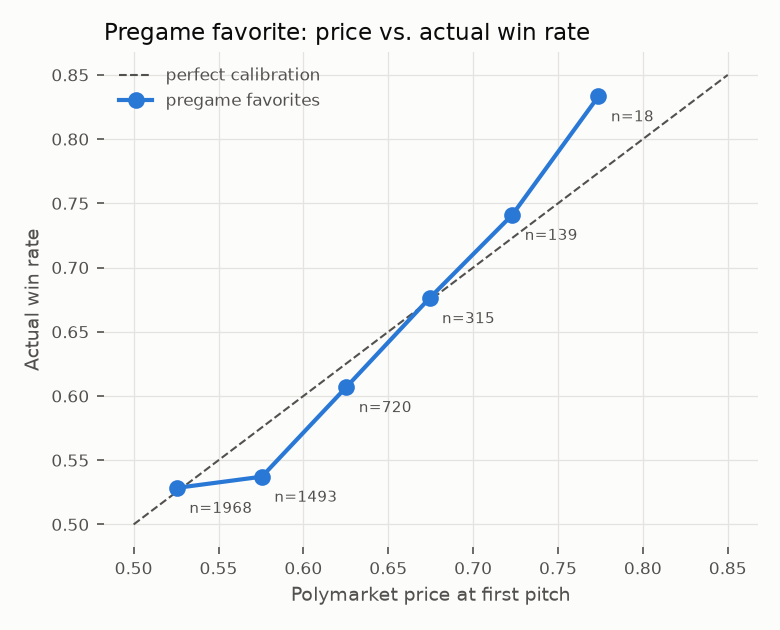
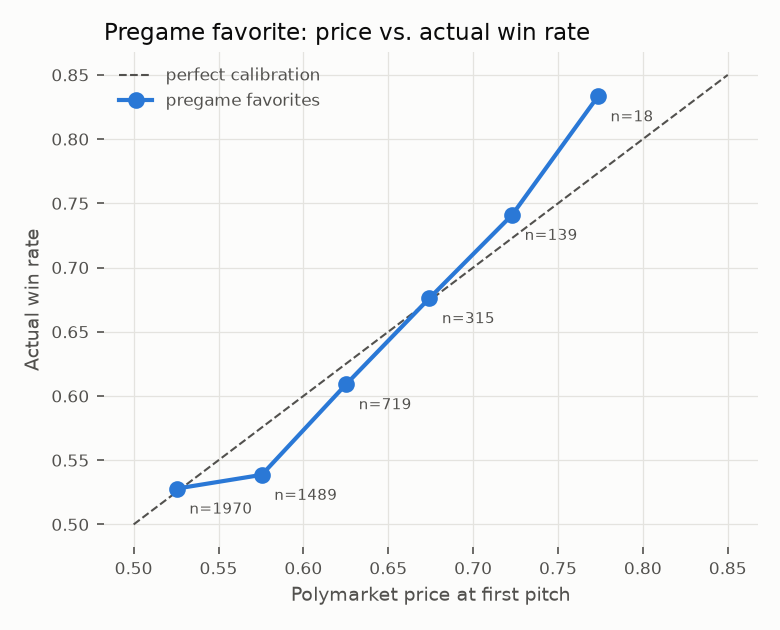
results: publish corrected MLB state and prediction report

diff --git a/reports/REPORT.md b/reports/REPORT.md
@@ -1,62 +1,60 @@
-# MLB x Polymarket: hypothesis report (2026-09-20)
+# MLB hypothesis report (2026-09-23)
 
-Generated by `python -m pmsports report`. All prices are Polymarket moneyline probabilities for the side named; P&L assumes you buy as a **taker** and hold to resolution. Fee = Polymarket sports taker fee `shares * 0.05 * p * (1-p)` (2.5% of notional at 50c); slippage = 1c unless stated.
+Corrected historical research; the evaluated history has already been explored. No result here proves an executable or prospective trading edge. Generated by `python -m pmsports report`.
 
-## Data
+## Data and timing
 
-- Polymarket MLB game events: 4,980; joined to MLB game_pk: 4,665
-- Games with pregame price + outcome: 4,653
-- In-game state rows priced by >=3 actual fills 15-75s after the play: 164,410 (27,026 half-inning checkpoints)
-- Baseline (MLB-only) games for win-expectancy tables: 14,379 (seasons 2021-2026)
+- 4,650 pregame price/outcome observations; 267,781 game states and 60,301 half-inning checkpoints.
+- Descriptive baseline: 14,379 games, seasons 2021–2026.
+- State references use raw transaction timestamps strictly before the decision; H2/H3 require a reference no older than 120 seconds. Terminal and phantom duplicate states are removed.
+- H3 entries require the first later acquired-side print strictly after five seconds and before state expiry; printed size and a $100 fee-inclusive game cap limit allocation. Failed and partial entries remain counted. The five seconds start at a retrospective play clock: actual receipt latency and available book depth are unknown.
 
-## H1 - Do pregame favorites win as often as the price says?
+## H1 — Pregame calibration
 
-Favorites won **56.1%** of games at an average price of **57.4%**. Calibration slope 0.84 (se 0.08; 1.00 = perfectly calibrated), intercept +0.036. Brier: market 0.2435 vs coin-flip 0.2500.
+Descriptive pregame-price calibration and synthetic cost sensitivities; no available quote/size is established.
 
-The question is not *does the favorite win more than 50%* (it does, by construction) but *does it win more often than its price*. Only the gap between the two columns below is edge.
+Favorites won 56.2% at mean reference probability 57.4%. Calibration slope 0.85 (standard error 0.08), intercept +0.034; market Brier 0.2434.
 
 | bucket        |   games |   implied |   actual | ci95        |   actual_minus_implied |
 |:--------------|--------:|----------:|---------:|:------------|-----------------------:|
-| (0.499, 0.55] |    1968 |     0.525 |    0.528 | 0.506-0.550 |                  0.003 |
-| (0.55, 0.6]   |    1493 |     0.576 |    0.537 | 0.512-0.562 |                 -0.038 |
-| (0.6, 0.65]   |     720 |     0.625 |    0.607 | 0.571-0.642 |                 -0.018 |
+| (0.499, 0.55] |    1970 |     0.525 |    0.528 | 0.506-0.550 |                  0.002 |
+| (0.55, 0.6]   |    1489 |     0.575 |    0.539 | 0.513-0.564 |                 -0.037 |
+| (0.6, 0.65]   |     719 |     0.625 |    0.609 | 0.573-0.644 |                 -0.016 |
 | (0.65, 0.7]   |     315 |     0.674 |    0.676 | 0.623-0.725 |                  0.002 |
 | (0.7, 0.75]   |     139 |     0.723 |    0.741 | 0.662-0.807 |                  0.018 |
-| (0.75, 1.0]   |      18 |     0.774 |    0.833 | 0.608-0.942 |                  0.059 |
+| (0.75, 1.0]   |      18 |     0.774 |    0.833 | 0.608-0.942 |                  0.060 |
 
-![calibration](h1_calibration.png)
-
-By season:
+![Pregame calibration](h1_calibration.png)
 
 |   season |   games |   fav_price |   fav_win |
 |---------:|--------:|------------:|----------:|
 |     2025 |    2363 |       0.579 |     0.559 |
-|     2026 |    2290 |       0.568 |     0.562 |
+|     2026 |    2287 |       0.568 |     0.564 |
 
-Blind strategies (every game, ROI per $1 staked, bootstrap 95% CI):
+Synthetic equal-dollar reference-price benchmarks follow. Their `bets` column counts observations, not executable fills. Zero/5% fee-rate and 0/1c adjustments are explicit cost scenarios, not per-contract historical fees or evidence of available depth. See [FAVORITES.md](FAVORITES.md) for later-print, size-limited execution.
 
 | strategy     | fee           |   slippage |   bets |   win_rate |   avg_price |   roi_per_$ | roi_ci95         |
 |:-------------|:--------------|-----------:|-------:|-----------:|------------:|------------:|:-----------------|
-| bet favorite | no fee        |      0.000 |   4653 |      0.561 |       0.574 |      -0.022 | -0.048 to +0.002 |
-| bet favorite | no fee        |      0.010 |   4653 |      0.561 |       0.574 |      -0.039 | -0.064 to -0.015 |
-| bet favorite | 5% sports fee |      0.000 |   4653 |      0.561 |       0.574 |      -0.043 | -0.068 to -0.019 |
-| bet favorite | 5% sports fee |      0.010 |   4653 |      0.561 |       0.574 |      -0.059 | -0.083 to -0.035 |
-| bet underdog | no fee        |      0.000 |   4653 |      0.439 |       0.426 |       0.031 | -0.001 to +0.066 |
-| bet underdog | no fee        |      0.010 |   4653 |      0.439 |       0.426 |       0.007 | -0.025 to +0.041 |
-| bet underdog | 5% sports fee |      0.000 |   4653 |      0.439 |       0.426 |       0.003 | -0.029 to +0.036 |
-| bet underdog | 5% sports fee |      0.010 |   4653 |      0.439 |       0.426 |      -0.020 | -0.052 to +0.012 |
-| bet home     | no fee        |      0.000 |   4653 |      0.536 |       0.532 |       0.012 | -0.017 to +0.040 |
-| bet home     | no fee        |      0.010 |   4653 |      0.536 |       0.532 |      -0.007 | -0.036 to +0.020 |
-| bet home     | 5% sports fee |      0.000 |   4653 |      0.536 |       0.532 |      -0.011 | -0.040 to +0.016 |
-| bet home     | 5% sports fee |      0.010 |   4653 |      0.536 |       0.532 |      -0.029 | -0.057 to -0.002 |
-| bet away     | no fee        |      0.000 |   4653 |      0.464 |       0.468 |      -0.003 | -0.035 to +0.029 |
-| bet away     | no fee        |      0.010 |   4653 |      0.464 |       0.468 |      -0.025 | -0.056 to +0.006 |
-| bet away     | 5% sports fee |      0.000 |   4653 |      0.464 |       0.468 |      -0.029 | -0.060 to +0.002 |
-| bet away     | 5% sports fee |      0.010 |   4653 |      0.464 |       0.468 |      -0.050 | -0.080 to -0.019 |
+| bet favorite | no fee        |      0.000 |   4650 |      0.562 |       0.574 |      -0.021 | -0.048 to +0.003 |
+| bet favorite | no fee        |      0.010 |   4650 |      0.562 |       0.574 |      -0.038 | -0.064 to -0.014 |
+| bet favorite | 5% sports fee |      0.000 |   4650 |      0.562 |       0.574 |      -0.042 | -0.068 to -0.018 |
+| bet favorite | 5% sports fee |      0.010 |   4650 |      0.562 |       0.574 |      -0.058 | -0.083 to -0.034 |
+| bet underdog | no fee        |      0.000 |   4650 |      0.438 |       0.426 |       0.030 | -0.004 to +0.065 |
+| bet underdog | no fee        |      0.010 |   4650 |      0.438 |       0.426 |       0.006 | -0.027 to +0.041 |
+| bet underdog | 5% sports fee |      0.000 |   4650 |      0.438 |       0.426 |       0.001 | -0.032 to +0.036 |
+| bet underdog | 5% sports fee |      0.010 |   4650 |      0.438 |       0.426 |      -0.022 | -0.054 to +0.012 |
+| bet home     | no fee        |      0.000 |   4650 |      0.536 |       0.532 |       0.011 | -0.017 to +0.038 |
+| bet home     | no fee        |      0.010 |   4650 |      0.536 |       0.532 |      -0.008 | -0.035 to +0.019 |
+| bet home     | 5% sports fee |      0.000 |   4650 |      0.536 |       0.532 |      -0.012 | -0.039 to +0.014 |
+| bet home     | 5% sports fee |      0.010 |   4650 |      0.536 |       0.532 |      -0.030 | -0.057 to -0.004 |
+| bet away     | no fee        |      0.000 |   4650 |      0.464 |       0.468 |      -0.003 | -0.034 to +0.029 |
+| bet away     | no fee        |      0.010 |   4650 |      0.464 |       0.468 |      -0.025 | -0.055 to +0.007 |
+| bet away     | 5% sports fee |      0.000 |   4650 |      0.464 |       0.468 |      -0.029 | -0.059 to +0.002 |
+| bet away     | 5% sports fee |      0.010 |   4650 |      0.464 |       0.468 |      -0.049 | -0.079 to -0.019 |
 
-## H2 - Leading by X going into inning Z
+## H2 — Prices and outcomes by state
 
-Ground truth from MLB play-by-play (includes seasons with no Polymarket data). Rows = inning about to start (10 = extras), columns = lead in runs (6 = 6+), value = how often the leading team went on to win.
+The first table describes historical win frequencies, including the evaluated season; it is not a causal forecasting model. Trading rules use strictly prior seasons. Rows are the inning about to start; columns are absolute lead (six means six or more).
 
 |   inning |     1 |     2 |     3 |     4 |     5 |     6 |
 |---------:|------:|------:|------:|------:|------:|------:|
@@ -69,96 +67,93 @@ Ground truth from MLB play-by-play (includes seasons with no Polymarket data). R
 |        8 | 0.758 | 0.881 | 0.946 | 0.971 | 0.984 | 0.997 |
 |        9 | 0.855 | 0.935 | 0.98  | 0.991 | 0.995 | 0.999 |
 
-Same states on Polymarket games: what the market priced the leader at (mean, std, 10th-90th pct) vs how often they actually won. `edge` = actual - mean price; |t| < 2 is noise.
+The market table compares outcomes and prices on the same priced, non-stale observations. Residual confidence intervals resample whole games. These descriptive, overlapping cells do not provide independent confirmatory significance tests.
 
-|   inning |   lead |       n |   mkt_mean |   mkt_std |   mkt_p10 |   mkt_p90 |   actual_win |   edge_actual_minus_mkt |   t_stat |   baseline_win |
-|---------:|-------:|--------:|-----------:|----------:|----------:|----------:|-------------:|------------------------:|---------:|---------------:|
-|    2.000 |  1.000 | 482.000 |      0.608 |     0.082 |     0.510 |     0.710 |        0.593 |                  -0.015 |   -0.672 |          0.617 |
-|    2.000 |  2.000 | 209.000 |      0.710 |     0.079 |     0.600 |     0.805 |        0.718 |                   0.008 |    0.268 |          0.733 |
-|    2.000 |  3.000 | 118.000 |      0.796 |     0.059 |     0.705 |     0.867 |        0.831 |                   0.035 |    1.024 |          0.821 |
-|    3.000 |  1.000 | 508.000 |      0.618 |     0.076 |     0.520 |     0.710 |        0.604 |                  -0.014 |   -0.646 |          0.630 |
-|    3.000 |  2.000 | 247.000 |      0.724 |     0.067 |     0.640 |     0.820 |        0.749 |                   0.025 |    0.916 |          0.749 |
-|    3.000 |  3.000 | 135.000 |      0.806 |     0.059 |     0.722 |     0.880 |        0.807 |                   0.001 |    0.027 |          0.810 |
-|    3.000 |  4.000 |  52.000 |      0.874 |     0.042 |     0.825 |     0.919 |        0.885 |                   0.011 |    0.242 |          0.875 |
-|    3.000 |  5.000 |  40.000 |      0.919 |     0.031 |     0.879 |     0.960 |        0.950 |                   0.031 |    0.924 |          0.937 |
-|    4.000 |  1.000 | 468.000 |      0.628 |     0.069 |     0.540 |     0.710 |        0.635 |                   0.006 |    0.279 |          0.638 |
-|    4.000 |  2.000 | 267.000 |      0.737 |     0.063 |     0.660 |     0.820 |        0.760 |                   0.023 |    0.886 |          0.758 |
-|    4.000 |  3.000 | 166.000 |      0.825 |     0.046 |     0.760 |     0.880 |        0.777 |                  -0.048 |   -1.492 |          0.831 |
-|    4.000 |  4.000 |  89.000 |      0.892 |     0.035 |     0.848 |     0.932 |        0.865 |                  -0.027 |   -0.751 |          0.902 |
-|    4.000 |  5.000 |  54.000 |      0.932 |     0.029 |     0.910 |     0.960 |        0.963 |                   0.031 |    1.209 |          0.920 |
-|    4.000 |  6.000 |  56.000 |      0.955 |     0.020 |     0.930 |     0.981 |        0.964 |                   0.009 |    0.370 |          0.969 |
-|    5.000 |  1.000 | 447.000 |      0.642 |     0.065 |     0.553 |     0.721 |        0.626 |                  -0.015 |   -0.666 |          0.669 |
-|    5.000 |  2.000 | 301.000 |      0.764 |     0.055 |     0.690 |     0.825 |        0.787 |                   0.023 |    0.987 |          0.776 |
-|    5.000 |  3.000 | 168.000 |      0.851 |     0.045 |     0.790 |     0.900 |        0.833 |                  -0.018 |   -0.619 |          0.851 |
-|    5.000 |  4.000 | 126.000 |      0.912 |     0.029 |     0.877 |     0.950 |        0.937 |                   0.025 |    1.134 |          0.925 |
-|    5.000 |  5.000 |  78.000 |      0.940 |     0.021 |     0.920 |     0.960 |        0.885 |                  -0.055 |   -1.510 |          0.922 |
-|    5.000 |  6.000 |  67.000 |      0.971 |     0.018 |     0.950 |     0.990 |        1.000 |                   0.029 |   13.481 |          0.990 |
-|    6.000 |  1.000 | 422.000 |      0.666 |     0.065 |     0.590 |     0.740 |        0.637 |                  -0.029 |   -1.217 |          0.678 |
-|    6.000 |  2.000 | 314.000 |      0.791 |     0.048 |     0.722 |     0.850 |        0.809 |                   0.018 |    0.827 |          0.803 |
-|    6.000 |  3.000 | 217.000 |      0.873 |     0.036 |     0.823 |     0.910 |        0.899 |                   0.025 |    1.232 |          0.877 |
-|    6.000 |  4.000 | 138.000 |      0.925 |     0.022 |     0.900 |     0.950 |        0.978 |                   0.053 |    4.262 |          0.929 |
-|    6.000 |  5.000 |  88.000 |      0.953 |     0.016 |     0.934 |     0.970 |        0.966 |                   0.013 |    0.672 |          0.961 |
-|    6.000 |  6.000 |  57.000 |      0.975 |     0.016 |     0.950 |     0.990 |        0.965 |                  -0.010 |   -0.393 |          0.988 |
-|    7.000 |  1.000 | 415.000 |      0.703 |     0.051 |     0.640 |     0.760 |        0.684 |                  -0.018 |   -0.809 |          0.711 |
-|    7.000 |  2.000 | 336.000 |      0.824 |     0.066 |     0.775 |     0.880 |        0.833 |                   0.009 |    0.455 |          0.843 |
-|    7.000 |  3.000 | 214.000 |      0.903 |     0.026 |     0.870 |     0.930 |        0.916 |                   0.013 |    0.665 |          0.911 |
-|    7.000 |  4.000 | 147.000 |      0.946 |     0.016 |     0.928 |     0.964 |        0.986 |                   0.040 |    4.184 |          0.952 |
-|    7.000 |  5.000 |  84.000 |      0.967 |     0.014 |     0.950 |     0.980 |        0.964 |                  -0.003 |   -0.126 |          0.979 |
-|    7.000 |  6.000 |  75.000 |      0.983 |     0.011 |     0.970 |     0.994 |        0.987 |                   0.004 |    0.279 |          0.992 |
-|    8.000 |  1.000 | 441.000 |      0.763 |     0.041 |     0.710 |     0.812 |        0.739 |                  -0.024 |   -1.134 |          0.758 |
-|    8.000 |  2.000 | 315.000 |      0.881 |     0.030 |     0.850 |     0.917 |        0.870 |                  -0.011 |   -0.572 |          0.881 |
-|    8.000 |  3.000 | 253.000 |      0.936 |     0.018 |     0.910 |     0.960 |        0.929 |                  -0.008 |   -0.468 |          0.946 |
-|    8.000 |  4.000 | 143.000 |      0.964 |     0.012 |     0.950 |     0.980 |        0.958 |                  -0.006 |   -0.377 |          0.971 |
-|    8.000 |  5.000 |  90.000 |      0.980 |     0.009 |     0.970 |     0.990 |        1.000 |                   0.020 |   20.220 |          0.984 |
-|    8.000 |  6.000 |  60.000 |      0.989 |     0.004 |     0.981 |     0.993 |        1.000 |                   0.011 |   19.310 |          0.997 |
-|    9.000 |  1.000 | 484.000 |      0.855 |     0.031 |     0.810 |     0.890 |        0.851 |                  -0.003 |   -0.214 |          0.855 |
-|    9.000 |  2.000 | 362.000 |      0.935 |     0.017 |     0.911 |     0.955 |        0.923 |                  -0.013 |   -0.918 |          0.935 |
-|    9.000 |  3.000 | 240.000 |      0.969 |     0.011 |     0.955 |     0.980 |        0.979 |                   0.010 |    1.096 |          0.980 |
-|    9.000 |  4.000 | 124.000 |      0.983 |     0.014 |     0.972 |     0.990 |        0.992 |                   0.009 |    1.156 |          0.991 |
-|    9.000 |  5.000 |  50.000 |      0.990 |     0.005 |     0.987 |     0.994 |        1.000 |                   0.010 |   13.589 |          0.995 |
+|   inning |   lead |        n |   mkt_mean |   mkt_std |   mkt_p10 |   mkt_p90 |   actual_win |   edge_actual_minus_mkt |   residual_ci_lo |   residual_ci_hi |   baseline_win |
+|---------:|-------:|---------:|-----------:|----------:|----------:|----------:|-------------:|------------------------:|-----------------:|-----------------:|---------------:|
+|    2.000 |  1.000 | 1012.000 |      0.612 |     0.097 |     0.490 |     0.730 |        0.612 |                  -0.000 |           -0.030 |            0.031 |          0.617 |
+|    2.000 |  2.000 |  451.000 |      0.713 |     0.092 |     0.590 |     0.830 |        0.732 |                   0.019 |           -0.023 |            0.059 |          0.733 |
+|    2.000 |  3.000 |  245.000 |      0.796 |     0.071 |     0.700 |     0.880 |        0.816 |                   0.020 |           -0.029 |            0.070 |          0.821 |
+|    2.000 |  4.000 |   80.000 |      0.857 |     0.055 |     0.790 |     0.920 |        0.850 |                  -0.007 |           -0.096 |            0.071 |          0.864 |
+|    3.000 |  1.000 | 1146.000 |      0.623 |     0.092 |     0.510 |     0.740 |        0.620 |                  -0.004 |           -0.032 |            0.024 |          0.630 |
+|    3.000 |  2.000 |  601.000 |      0.728 |     0.081 |     0.630 |     0.830 |        0.755 |                   0.027 |           -0.007 |            0.061 |          0.749 |
+|    3.000 |  3.000 |  321.000 |      0.811 |     0.067 |     0.720 |     0.900 |        0.801 |                  -0.010 |           -0.054 |            0.032 |          0.810 |
+|    3.000 |  4.000 |  155.000 |      0.876 |     0.049 |     0.810 |     0.930 |        0.871 |                  -0.005 |           -0.060 |            0.045 |          0.875 |
+|    3.000 |  5.000 |  101.000 |      0.913 |     0.041 |     0.870 |     0.960 |        0.970 |                   0.057 |            0.022 |            0.086 |          0.937 |
+|    3.000 |  6.000 |   99.000 |      0.950 |     0.023 |     0.920 |     0.980 |        0.960 |                   0.009 |           -0.032 |            0.043 |          0.948 |
+|    4.000 |  1.000 | 1103.000 |      0.630 |     0.083 |     0.520 |     0.730 |        0.610 |                  -0.020 |           -0.050 |            0.008 |          0.638 |
+|    4.000 |  2.000 |  676.000 |      0.739 |     0.080 |     0.640 |     0.840 |        0.749 |                   0.009 |           -0.022 |            0.042 |          0.758 |
+|    4.000 |  3.000 |  430.000 |      0.830 |     0.059 |     0.750 |     0.900 |        0.814 |                  -0.016 |           -0.054 |            0.020 |          0.831 |
+|    4.000 |  4.000 |  243.000 |      0.891 |     0.043 |     0.830 |     0.940 |        0.893 |                   0.002 |           -0.038 |            0.041 |          0.902 |
+|    4.000 |  5.000 |  159.000 |      0.932 |     0.029 |     0.900 |     0.962 |        0.943 |                   0.011 |           -0.025 |            0.044 |          0.920 |
+|    4.000 |  6.000 |  161.000 |      0.956 |     0.022 |     0.930 |     0.986 |        0.969 |                   0.013 |           -0.018 |            0.037 |          0.969 |
+|    5.000 |  1.000 | 1044.000 |      0.645 |     0.079 |     0.549 |     0.749 |        0.660 |                   0.015 |           -0.014 |            0.043 |          0.669 |
+|    5.000 |  2.000 |  724.000 |      0.763 |     0.069 |     0.670 |     0.843 |        0.771 |                   0.008 |           -0.023 |            0.040 |          0.776 |
+|    5.000 |  3.000 |  425.000 |      0.847 |     0.069 |     0.780 |     0.910 |        0.824 |                  -0.024 |           -0.060 |            0.012 |          0.851 |
+|    5.000 |  4.000 |  301.000 |      0.909 |     0.034 |     0.860 |     0.950 |        0.940 |                   0.031 |            0.003 |            0.058 |          0.925 |
+|    5.000 |  5.000 |  185.000 |      0.940 |     0.026 |     0.910 |     0.970 |        0.924 |                  -0.016 |           -0.055 |            0.019 |          0.922 |
+|    5.000 |  6.000 |  250.000 |      0.969 |     0.034 |     0.950 |     0.990 |        0.984 |                   0.015 |           -0.000 |            0.028 |          0.990 |
+|    6.000 |  1.000 |  934.000 |      0.664 |     0.081 |     0.570 |     0.760 |        0.657 |                  -0.006 |           -0.037 |            0.023 |          0.678 |
+|    6.000 |  2.000 |  710.000 |      0.788 |     0.063 |     0.705 |     0.860 |        0.811 |                   0.023 |           -0.006 |            0.051 |          0.803 |
+|    6.000 |  3.000 |  499.000 |      0.866 |     0.052 |     0.800 |     0.920 |        0.882 |                   0.016 |           -0.014 |            0.043 |          0.877 |
+|    6.000 |  4.000 |  360.000 |      0.927 |     0.027 |     0.890 |     0.960 |        0.939 |                   0.012 |           -0.013 |            0.035 |          0.929 |
+|    6.000 |  5.000 |  253.000 |      0.951 |     0.020 |     0.930 |     0.972 |        0.949 |                  -0.003 |           -0.032 |            0.022 |          0.961 |
+|    6.000 |  6.000 |  278.000 |      0.975 |     0.021 |     0.950 |     0.992 |        0.986 |                   0.011 |           -0.005 |            0.023 |          0.988 |
+|    7.000 |  1.000 |  858.000 |      0.700 |     0.076 |     0.590 |     0.790 |        0.713 |                   0.014 |           -0.018 |            0.044 |          0.711 |
+|    7.000 |  2.000 |  708.000 |      0.821 |     0.062 |     0.740 |     0.890 |        0.855 |                   0.034 |            0.007 |            0.058 |          0.843 |
+|    7.000 |  3.000 |  511.000 |      0.897 |     0.040 |     0.840 |     0.940 |        0.910 |                   0.013 |           -0.012 |            0.037 |          0.911 |
+|    7.000 |  4.000 |  389.000 |      0.941 |     0.026 |     0.910 |     0.970 |        0.961 |                   0.020 |            0.001 |            0.038 |          0.952 |
+|    7.000 |  5.000 |  260.000 |      0.964 |     0.019 |     0.940 |     0.980 |        0.965 |                   0.001 |           -0.024 |            0.021 |          0.979 |
+|    7.000 |  6.000 |  313.000 |      0.980 |     0.029 |     0.962 |     0.994 |        0.984 |                   0.004 |           -0.011 |            0.017 |          0.992 |
+|    8.000 |  1.000 |  838.000 |      0.749 |     0.070 |     0.660 |     0.830 |        0.761 |                   0.012 |           -0.017 |            0.040 |          0.758 |
+|    8.000 |  2.000 |  698.000 |      0.869 |     0.050 |     0.800 |     0.920 |        0.868 |                  -0.001 |           -0.027 |            0.023 |          0.881 |
+|    8.000 |  3.000 |  525.000 |      0.930 |     0.032 |     0.890 |     0.960 |        0.950 |                   0.021 |            0.001 |            0.038 |          0.946 |
+|    8.000 |  4.000 |  385.000 |      0.959 |     0.030 |     0.930 |     0.980 |        0.966 |                   0.008 |           -0.012 |            0.025 |          0.971 |
+|    8.000 |  5.000 |  250.000 |      0.976 |     0.017 |     0.960 |     0.990 |        0.992 |                   0.016 |            0.002 |            0.025 |          0.984 |
+|    8.000 |  6.000 |  302.000 |      0.987 |     0.008 |     0.977 |     0.994 |        0.993 |                   0.006 |           -0.004 |            0.014 |          0.997 |
+|    9.000 |  1.000 |  792.000 |      0.830 |     0.071 |     0.739 |     0.900 |        0.855 |                   0.025 |            0.000 |            0.049 |          0.855 |
+|    9.000 |  2.000 |  665.000 |      0.921 |     0.042 |     0.870 |     0.960 |        0.925 |                   0.004 |           -0.017 |            0.024 |          0.935 |
+|    9.000 |  3.000 |  529.000 |      0.960 |     0.033 |     0.930 |     0.988 |        0.979 |                   0.019 |            0.006 |            0.030 |          0.980 |
+|    9.000 |  4.000 |  329.000 |      0.979 |     0.016 |     0.960 |     0.991 |        0.991 |                   0.012 |           -0.000 |            0.021 |          0.991 |
+|    9.000 |  5.000 |  210.000 |      0.987 |     0.009 |     0.979 |     0.994 |        1.000 |                   0.013 |            0.012 |            0.014 |          0.995 |
+|    9.000 |  6.000 |  160.000 |      0.991 |     0.005 |     0.987 |     0.995 |        0.988 |                  -0.003 |           -0.022 |            0.010 |          0.999 |
 
-## H3 - Trade toward a fair value, out of sample
+## H3 — Model-versus-market settlement tests
 
-Train = games before 2026-01-01 (2,128 games, 40,038 states); test = on/after (2,210 games, 124,370 states). Model: logistic regression of home win on baseline win expectancy for the state, pregame price, and pregame price x share of game left. Lower log-loss = better forecaster.
+Training before 2026-01-01: 2,358 games/115,064 states. Historical evaluation: 2,210 games/152,683 states. Each training state's baseline rate excludes that state's season; the evaluation baseline is frozen before the split year. Logistic inputs are baseline expectancy, pregame price and game progress.
 
-| predictor                     |   log_loss |   brier |
-|:------------------------------|-----------:|--------:|
-| market price (60s after play) |     0.5178 |  0.1749 |
-| model (pregame price + state) |     0.5270 |  0.1777 |
-| baseline win expectancy only  |     0.5290 |  0.1786 |
-| pregame price only            |     0.6939 |  0.2503 |
+| predictor                                 |   log_loss |   brier |
+|:------------------------------------------|-----------:|--------:|
+| causal pre-decision transaction reference |     0.4948 |  0.1662 |
+| model (pregame price + state)             |     0.4977 |  0.1667 |
+| baseline win expectancy only              |     0.5007 |  0.1678 |
+| pregame price only                        |     0.6860 |  0.2465 |
 
-Stacking test (does the model add information the market lacks?): coefficient on (model - market) = +0.004 (game-clustered se 0.091). ~0 means the market already contains the model. A positive value with a losing backtest means the model only helps inside the bid/ask + fee band.
+Descriptive evaluation-set stacking coefficient on model-minus-market: +0.358, game-clustered standard error 0.067. This fitted diagnostic is not a deployed trading rule.
 
-Backtest: first state per game where |model - market| > threshold; buy the side the model prefers at market + 1c, hold to resolution:
+First eligible signal per game at each declared threshold; later-print entry plus 1c sensitivity and actual contract fee; settlement exit. ROI divides total P&L by actual allocated capital.
 
-|   threshold | fee           |   bets |   win_rate |   avg_price_paid |   roi_per_$ | roi_ci95         |
-|------------:|:--------------|-------:|-----------:|-----------------:|------------:|:-----------------|
-|       0.020 | no fee        |   2208 |      0.454 |            0.452 |       0.002 | -0.044 to +0.048 |
-|       0.020 | 5% sports fee |   2208 |      0.454 |            0.464 |      -0.025 | -0.070 to +0.020 |
-|       0.040 | no fee        |   2207 |      0.441 |            0.449 |      -0.018 | -0.065 to +0.031 |
-|       0.040 | 5% sports fee |   2207 |      0.441 |            0.460 |      -0.044 | -0.090 to +0.004 |
-|       0.060 | no fee        |   2185 |      0.426 |            0.439 |      -0.047 | -0.094 to +0.004 |
-|       0.060 | 5% sports fee |   2185 |      0.426 |            0.450 |      -0.072 | -0.118 to -0.024 |
-|       0.080 | no fee        |   2070 |      0.413 |            0.422 |      -0.049 | -0.108 to +0.014 |
-|       0.080 | 5% sports fee |   2070 |      0.413 |            0.433 |      -0.075 | -0.133 to -0.015 |
-|       0.100 | no fee        |   1831 |      0.413 |            0.416 |      -0.029 | -0.096 to +0.043 |
-|       0.100 | 5% sports fee |   1831 |      0.413 |            0.426 |      -0.056 | -0.121 to +0.013 |
+|   threshold | fee               |   signals |   bets |   unfilled |   partial |   win_rate |   avg_price_paid |   capital_usd |   pnl_usd |   roi_per_$ | roi_ci95         |
+|------------:|:------------------|----------:|-------:|-----------:|----------:|-----------:|-----------------:|--------------:|----------:|------------:|:-----------------|
+|       0.020 | historical actual |      2210 |   2037 |        173 |      1741 |      0.488 |            0.496 |     51248.834 | -4816.813 |      -0.094 | -0.167 to -0.022 |
+|       0.040 | historical actual |      2208 |   2045 |        163 |      1769 |      0.482 |            0.486 |     49746.365 | -3019.865 |      -0.061 | -0.142 to +0.019 |
+|       0.060 | historical actual |      2204 |   2071 |        133 |      1841 |      0.504 |            0.501 |     44409.375 | -2170.740 |      -0.049 | -0.128 to +0.034 |
+|       0.080 | historical actual |      2144 |   2043 |        101 |      1846 |      0.506 |            0.510 |     40987.590 | -3226.656 |      -0.079 | -0.158 to +0.003 |
+|       0.100 | historical actual |      1972 |   1903 |         69 |      1712 |      0.524 |            0.521 |     39049.334 | -1221.860 |      -0.031 | -0.114 to +0.056 |
 
-Your literal idea - cell = (inning, half, score diff, pregame-favorite bucket), fair = the average market price for that cell in the training period, bet toward the average when the price is k std away:
+The historical cell-average rule below uses training-period mean/std by inning, half, score difference and pregame price bucket. It holds to settlement. The requested literal exit at the mean is tested separately against received book depth in [LIVE_EXECUTION.md](research/LIVE_EXECUTION.md).
 
-|   k_std | fee           |   bets |   win_rate |   avg_price_paid |   roi_per_$ | roi_ci95         |
-|--------:|:--------------|-------:|-----------:|-----------------:|------------:|:-----------------|
-|   1.000 | no fee        |   2159 |      0.412 |            0.441 |      -0.070 | -0.125 to -0.018 |
-|   1.000 | 5% sports fee |   2159 |      0.412 |            0.452 |      -0.096 | -0.149 to -0.044 |
-|   1.500 | no fee        |   2012 |      0.384 |            0.399 |      -0.075 | -0.134 to -0.018 |
-|   1.500 | 5% sports fee |   2012 |      0.384 |            0.410 |      -0.101 | -0.159 to -0.047 |
-|   2.000 | no fee        |   1652 |      0.347 |            0.376 |      -0.112 | -0.181 to -0.047 |
-|   2.000 | 5% sports fee |   1652 |      0.347 |            0.386 |      -0.138 | -0.205 to -0.075 |
+|   k_std | fee               |   signals |   bets |   unfilled |   win_rate |   avg_price_paid |   capital_usd |   pnl_usd |   roi_per_$ | roi_ci95         |
+|--------:|:------------------|----------:|-------:|-----------:|-----------:|-----------------:|--------------:|----------:|------------:|:-----------------|
+|   1.000 | historical actual |      2180 |   1998 |        182 |      0.445 |            0.463 |     41994.687 | -3226.926 |      -0.077 | -0.162 to +0.008 |
+|   1.500 | historical actual |      2014 |   1925 |         89 |      0.464 |            0.475 |     38425.912 |  -683.953 |      -0.018 | -0.111 to +0.077 |
+|   2.000 | historical actual |      1622 |   1567 |         55 |      0.493 |            0.511 |     31234.137 |  -903.382 |      -0.029 | -0.116 to +0.061 |
 
-## H4 - Can you beat the market after seeing a play?
+Optimistic5s from retrospective state clock; receipt latency and actual book unknown. Settlement exits only; no literal mean-reversion exit tested.
 
-Clock: MLB Statcast timestamp of the in-play pitch vs Polymarket fill timestamps (1s resolution, on-chain settlement time, shifted 2.5s earlier to approximate match time - measured by matching tx hashes against the live CLOB websocket). `t50` = seconds until a fill prints at least halfway to the post-play price. `stale fill` = a taker bought the scoring side at a price < 25% of the way to the new level (someone's old resting order got picked off).
+## H4 — Retrospective price response
+
+This descriptive event study selects scoring events with a subsequent price move. It compares retrospective Statcast contact times with transaction timestamps shifted 2.5 seconds earlier using an estimated chain lag. That shift is not used for H3 execution. A stale historical print does not prove liquidity remained for a newly submitted order. Actual received-feed/book timing and hypothetical depth-crossing P&L are reported separately in [LIVE_EXECUTION.md](research/LIVE_EXECUTION.md).
 
 | events            |    n |   median move |   t50 median (s) |   t50 p90 (s) |   t90 median (s) |
 |:------------------|-----:|--------------:|-----------------:|--------------:|-----------------:|
@@ -174,12 +169,8 @@ Clock: MLB Statcast timestamp of the in-play pitch vs Polymarket fill timestamps
 | 30-45s                  | 0.7%                                                  | 0.7%                                          |
 | 45-60s                  | 0.2%                                                  | 0.2%                                          |
 
-![latency](h4_latency.png)
+![Retrospective response](h4_latency.png)
 
-## Caveats
+## Limits
 
-- In-game states are priced only where >=3 fills printed 15-75s after the play (19% of 2025 states, 62% of 2026). 1-minute bars are NOT used in-game: with no fills they sit frozen (e.g. 0.54 while a team leads by 10) and manufacture fake edges.
-- 1-minute price bars are last-trade/mid samples, not executable quotes; H1-H3 add 1c slippage to approximate crossing the spread. Real books for live MLB are usually 1-2c wide but thin.
-- Polymarket clears the book at first pitch (`clearBookOnStart`); the 'pregame price' is the last price before that.
-- Early-2025 events sometimes had home/away reversed on Polymarket; the pipeline re-orients every game to MLB's home/away.
-- Fees were 0 in 2025, 3% Mar-Jun 2026, 5% since Jul 2026. Backtests show both 0 and 5% so you can see what the fee alone does.
+The corpus has legacy volume/window selection and incomplete market coverage. Reference transactions are not order-book asks/bids. Next-state expiry is analytical censoring, not verified cancellation during a sports order delay. Unknown fees fail closed in execution. H1 synthetic scenarios are separate from H3's recovered contract-specific historical fees. Nominal intervals do not correct for the many already inspected variants. No live orders were placed.
